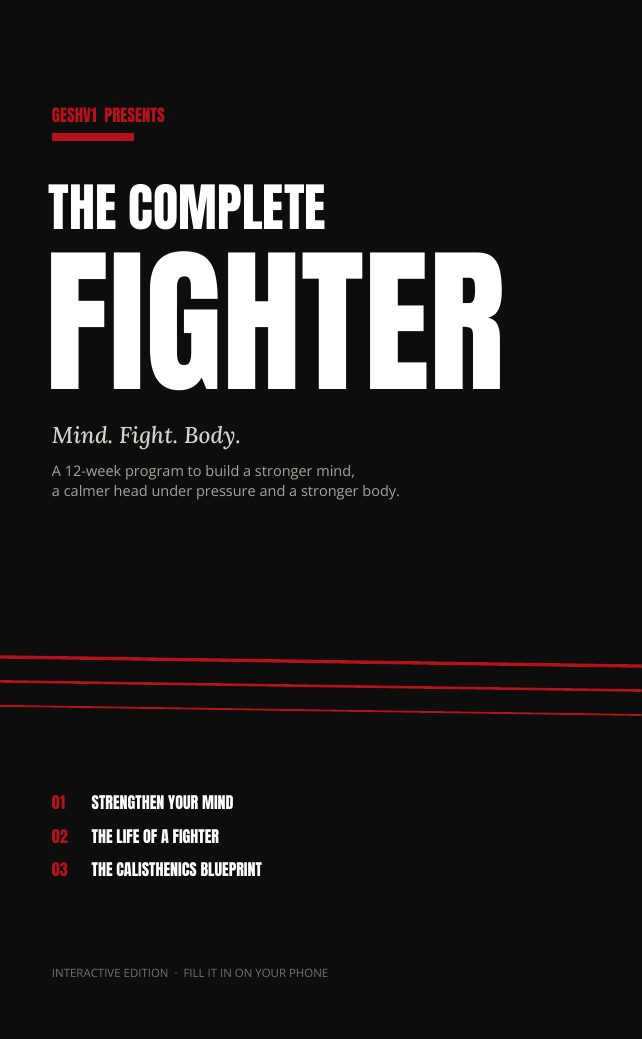
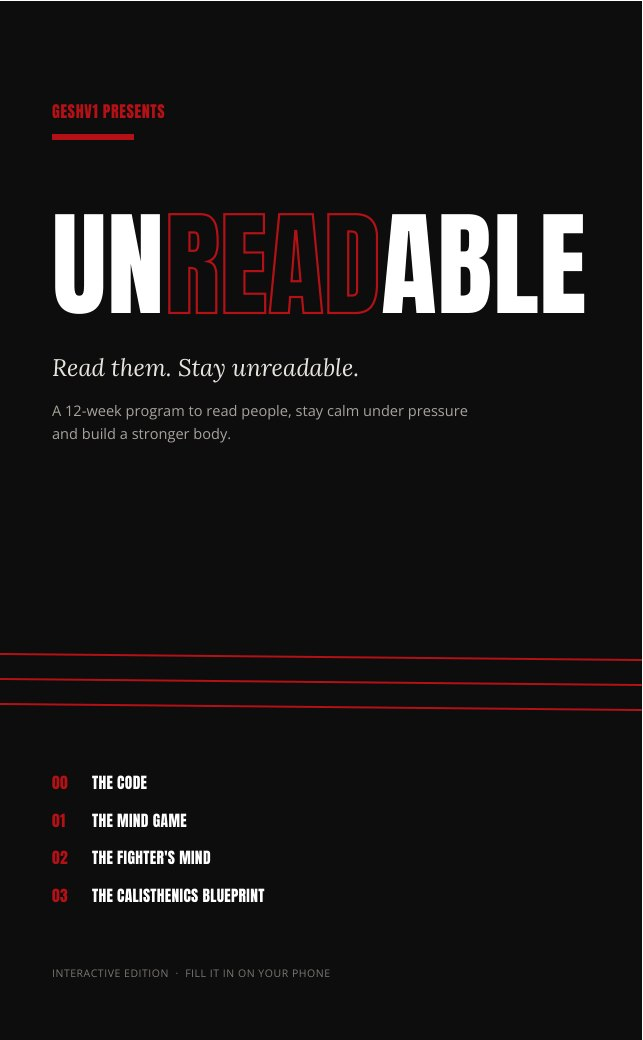
Rename the book to Unreadable across the site
New cover and preview pages from the rebuilt book, the sales page and
quiz now use the new name, and the book details (parts, page count,
fill-in boxes) match the new 58-page edition.

Claude-Session: https://claude.ai/code/session_011QdG5ddfwiE2Q7JrrEerXv

diff --git a/index.html b/index.html
@@ -3,9 +3,9 @@
 <head>
 <meta charset="utf-8">
 <meta name="viewport" content="width=device-width, initial-scale=1">
-<title>The Complete Fighter</title>
-<meta name="description" content="From one messy pull-up to clean sets. A 12-week bodyweight plan by geshv1, plus the psychology of fear, ego, pressure and discipline from the ring.">
-<meta property="og:title" content="One messy pull-up. Now clean sets. · The Complete Fighter">
+<title>Unreadable · Read them. Stay unreadable.</title>
+<meta name="description" content="Unreadable by geshv1: from one messy pull-up to clean sets. A 12-week bodyweight plan, plus how to read people, spot manipulation and stay calm under pressure.">
+<meta property="og:title" content="One messy pull-up. Now clean sets. · Unreadable">
 <meta property="og:description" content="The 12-week bodyweight plan I followed from one messy rep to strict pull-ups, plus the psychology that keeps you from quitting. Instant PDF.">
 <meta property="og:image" content="https://geshv1.github.io/completefighter/cover.jpg">
 <meta name="theme-color" content="#08080b">
@@ -373,7 +373,7 @@ summary .pm::before,summary .pm::after{height:1.5px}
 <div class="hero">
   <div class="wrap">
     <div class="hero-copy">
-      <div class="eyebrow">The Complete Fighter · Body. Mind. Fight.</div>
+      <div class="eyebrow">Unreadable · Mind. Fight. Body.</div>
       <h1>
         <span class="line">One messy pull-up.</span>
         <span class="line">Now clean <span class="r">sets.</span></span>
@@ -446,10 +446,12 @@ summary .pm::before,summary .pm::after{height:1.5px}
   <div class="wrap">
     <div class="sec-head rv">
       <div class="eyebrow">Round 02 · The mind</div>
-      <h2>The psychology that keeps you in the fight.</h2>
-      <p>Most guys don't quit because the workout is hard. They quit because of what happens in their head. The rest of the book is what boxing taught me about fear, ego, pressure and discipline, turned into drills you do every day.</p>
+      <h2>Read them. Stay unreadable.</h2>
+      <p>Most guys don't get stuck because the workout is hard. They get stuck because of what happens in their head, and because of the people pulling their strings. The rest of the book is how to read people while they can't read you, and what boxing taught me about fear, ego, pressure and discipline, turned into drills you do every day.</p>
     </div>
     <div class="psych rv">
+      <article><span class="q">Why you get used</span><p>Dark psychology: the 11 moves people use to steer you, from guilt trips to gaslighting, and your counter to each one.</p></article>
+      <article><span class="q">Why they read you</span><p>Frame, presence and saying no without a reason. Calm on the outside, clear on the inside, nothing to grab.</p></article>
       <article><span class="q">Why you quit</span><p>Motivation vs discipline, and a weekly structure that works on the days you don't feel like it.</p></article>
       <article><span class="q">Why you freeze</span><p>Fear and pressure, explained from the ring. How fighters step in before they feel ready.</p></article>
       <article><span class="q">Why you snap</span><p>Ego and anger. Whoever controls your emotions controls you, in the ring and outside it.</p></article>
@@ -472,7 +474,7 @@ summary .pm::before,summary .pm::after{height:1.5px}
         <span class="you-tag">Your type</span>
         <h3>Nice Guy</h3>
         <p>Liked by everyone, respected by no one. You say yes when you mean no, and people know it.</p>
-        <p class="fix"><b>You get:</b> a 6-week mind program to stop needing approval, and a body plan that proves you keep your word.</p>
+        <p class="fix"><b>You get:</b> the Mind Game: spot the guilt trip, say no without a reason and stop needing approval. Plus a body plan that proves you keep your word.</p>
       </article>
       <article class="card" data-type="ot">
         <span class="you-tag">Your type</span>
@@ -484,7 +486,7 @@ summary .pm::before,summary .pm::after{height:1.5px}
         <span class="you-tag">Your type</span>
         <h3>Hothead</h3>
         <p>Strong, and easy to control. One comment and you do exactly what they wanted.</p>
-        <p class="fix"><b>You get:</b> 20 rounds from the ring on ego, pain and pressure, each with a daily drill to stay calm.</p>
+        <p class="fix"><b>You get:</b> rounds from the ring on ego, pain and pressure, each with a drill to stay calm, and the bait spotted before you bite.</p>
       </article>
       <article class="card" data-type="dr">
         <span class="you-tag">Your type</span>
@@ -501,10 +503,40 @@ summary .pm::before,summary .pm::after{height:1.5px}
   <div class="wrap">
     <div class="sec-head rv">
       <div class="eyebrow">Round 04 · What's inside</div>
-      <h2>Body. Mind. Fight. One book.</h2>
+      <h2>Mind. Fight. Body. One book.</h2>
       <p>Most guides tell you what to think. This one gives you something to do every single day, and a place to write it down.</p>
     </div>
     <div class="parts">
+      <div class="part rv">
+        <div class="num">Code</div>
+        <div><h3>The Code</h3><span class="len">Part 0 · week 1 · one rule a day</span></div>
+        <ul>
+          <li>Five rules I live by, one page each</li>
+          <li>The real story behind every rule</li>
+          <li>A drill that puts each rule to work</li>
+          <li>Sign your own code and write your sixth rule</li>
+        </ul>
+      </div>
+      <div class="part rv">
+        <div class="num">Mind</div>
+        <div><h3>The Mind Game</h3><span class="len">Part 1 · 11 rounds · weeks 2–5</span></div>
+        <ul>
+          <li>Dark psychology: the 11 moves people use to steer you, and your counter to each</li>
+          <li>What gets used on your type, and how to shut it down</li>
+          <li>Read people, hold your frame and say no</li>
+          <li>Think one step ahead, be different, be fine alone</li>
+        </ul>
+      </div>
+      <div class="part rv">
+        <div class="num">Fight</div>
+        <div><h3>The Fighter's Mind</h3><span class="len">Part 2 · 10 rounds · weeks 6–9</span></div>
+        <ul>
+          <li>How sport builds a "nothing's impossible" mindset</li>
+          <li>Fear, composure, discipline, ego, pain and failure, explained from the ring</li>
+          <li>Real stories from my own sparring, competitions and hard years</li>
+          <li>A drill for every round, and a place to log how it went</li>
+        </ul>
+      </div>
       <div class="part rv">
         <div class="num">Body</div>
         <div><h3>The Calisthenics Blueprint</h3><span class="len">Part 3 · 12 weeks · 3 workouts a week</span></div>
@@ -515,32 +547,12 @@ summary .pm::before,summary .pm::after{height:1.5px}
           <li>Warm-up, nutrition with real numbers, and full trackers</li>
         </ul>
       </div>
-      <div class="part rv">
-        <div class="num">Mind</div>
-        <div><h3>Strengthen Your Mind</h3><span class="len">Part 1 · 6 weeks · one chapter a week</span></div>
-        <ul>
-          <li>Build structure when school, work and training collide</li>
-          <li>Be fine alone and stop needing approval</li>
-          <li>A 4-step method to solve your own problems</li>
-          <li>Weekly challenges and three honest questions to answer</li>
-        </ul>
-      </div>
-      <div class="part rv">
-        <div class="num">Fight</div>
-        <div><h3>The Life of a Fighter</h3><span class="len">Part 2 · 20 rounds · one a day</span></div>
-        <ul>
-          <li>Fear, ego, pain, failure and pressure, explained from the ring</li>
-          <li>Real stories from my own sparring, competitions and hard years</li>
-          <li>A daily drill that turns each lesson into action</li>
-          <li>Tick it off and log how it went</li>
-        </ul>
-      </div>
     </div>
     <div class="stats rv">
-      <div class="stat"><b>76</b><span>pages</span></div>
-      <div class="stat"><b>244</b><span>fill-in boxes and checkboxes</span></div>
-      <div class="stat"><b>20</b><span>rounds from the ring</span></div>
-      <div class="stat"><b>6</b><span>weeks of mind training</span></div>
+      <div class="stat"><b>58</b><span>pages</span></div>
+      <div class="stat"><b>283</b><span>fill-in boxes and checkboxes</span></div>
+      <div class="stat"><b>11</b><span>moves people use on you</span></div>
+      <div class="stat"><b>5</b><span>rules to live by</span></div>
     </div>
   </div>
 </section>
@@ -555,8 +567,8 @@ summary .pm::before,summary .pm::after{height:1.5px}
     </div>
     <div class="pages rv">
       <figure class="page"><img src="cover.jpg" alt="Book cover" loading="lazy" width="420" height="680"><figcaption>The cover</figcaption></figure>
-      <figure class="page"><img src="page-week.jpg" alt="Week 1 planner page with fillable fields" loading="lazy" width="420" height="680"><figcaption>Your weekly structure</figcaption></figure>
-      <figure class="page"><img src="page-round.jpg" alt="Round 9: Pain, with a story and a daily drill" loading="lazy" width="420" height="680"><figcaption>A round with a daily drill</figcaption></figure>
+      <figure class="page"><img src="page-playbook.jpg" alt="The playbook: the moves people use to steer you, what they sound like and your counter" loading="lazy" width="420" height="680"><figcaption>The playbook</figcaption></figure>
+      <figure class="page"><img src="page-round.jpg" alt="Rule 01: You're a human, I'm a human, with a story and a daily drill" loading="lazy" width="420" height="680"><figcaption>A rule with a daily drill</figcaption></figure>
       <figure class="page"><img src="page-tracker.jpg" alt="12-week progress tracker" loading="lazy" width="420" height="680"><figcaption>Your 12-week tracker</figcaption></figure>
     </div>
   </div>
@@ -602,10 +614,11 @@ summary .pm::before,summary .pm::after{height:1.5px}
         <div class="eyebrow">Round 08 · Your corner</div>
         <h3 style="margin-top:14px">Everything you get</h3>
         <ul>
-          <li><svg width="12" height="12" viewBox="0 0 12 12"><rect x="2" y="2" width="8" height="8" transform="rotate(45 6 6)" fill="#d42a3c"/></svg><span><b>The Complete Fighter</b>, 76-page interactive PDF</span></li>
+          <li><svg width="12" height="12" viewBox="0 0 12 12"><rect x="2" y="2" width="8" height="8" transform="rotate(45 6 6)" fill="#d42a3c"/></svg><span><b>Unreadable</b>, 58-page interactive PDF</span></li>
+                    <li><svg width="12" height="12" viewBox="0 0 12 12"><rect x="2" y="2" width="8" height="8" transform="rotate(45 6 6)" fill="#d42a3c"/></svg><span><b>The code:</b> five rules to live by, and your own to sign</span></li>
+          <li><svg width="12" height="12" viewBox="0 0 12 12"><rect x="2" y="2" width="8" height="8" transform="rotate(45 6 6)" fill="#d42a3c"/></svg><span><b>The mind game:</b> dark psychology, reading people, saying no</span></li>
+          <li><svg width="12" height="12" viewBox="0 0 12 12"><rect x="2" y="2" width="8" height="8" transform="rotate(45 6 6)" fill="#d42a3c"/></svg><span><b>The fight:</b> The Fighter's Mind, 10 rounds from the ring</span></li>
           <li><svg width="12" height="12" viewBox="0 0 12 12"><rect x="2" y="2" width="8" height="8" transform="rotate(45 6 6)" fill="#d42a3c"/></svg><span><b>The body:</b> The Calisthenics Blueprint, 12-week plan</span></li>
-          <li><svg width="12" height="12" viewBox="0 0 12 12"><rect x="2" y="2" width="8" height="8" transform="rotate(45 6 6)" fill="#d42a3c"/></svg><span><b>The mind:</b> Strengthen Your Mind, 6-week program</span></li>
-          <li><svg width="12" height="12" viewBox="0 0 12 12"><rect x="2" y="2" width="8" height="8" transform="rotate(45 6 6)" fill="#d42a3c"/></svg><span><b>The fight:</b> The Life of a Fighter, 20 daily rounds</span></li>
           <li><svg width="12" height="12" viewBox="0 0 12 12"><rect x="2" y="2" width="8" height="8" transform="rotate(45 6 6)" fill="#d42a3c"/></svg><span>Level test, trackers and a 36-workout checklist</span></li>
           <li><svg width="12" height="12" viewBox="0 0 12 12"><rect x="2" y="2" width="8" height="8" transform="rotate(45 6 6)" fill="#d42a3c"/></svg><span>Works on iPhone, Android and computer</span></li>
         </ul>
@@ -661,7 +674,7 @@ summary .pm::before,summary .pm::after{height:1.5px}
 
 <footer>
   <div class="wrap">
-    <span>© 2026 geshv1 · The Complete Fighter</span>
+    <span>© 2026 geshv1 · Unreadable</span>
     <a href="https://www.tiktok.com/@geshv1">TikTok @geshv1</a>
     <span>This guide is general fitness and self-improvement information, not medical advice.</span>
   </div>

diff --git a/quiz.html b/quiz.html
@@ -185,7 +185,7 @@ footer .wrap{display:flex;flex-wrap:wrap;gap:10px 24px;justify-content:space-bet
     <p class="lede">Ten honest questions about pressure, people and the way you live. Find your type, your real strength, and what people use against you.</p>
     <button class="btn" id="start" type="button">Start round 1 <span aria-hidden="true">→</span></button>
     <p class="note">Answer honestly. Your answers stay on your phone.</p>
-    <noscript><p style="margin-top:20px;color:#cfcac1">The quiz needs JavaScript. You can go straight to <a href="./">The Complete Fighter</a>.</p></noscript>
+    <noscript><p style="margin-top:20px;color:#cfcac1">The quiz needs JavaScript. You can go straight to <a href="./">Unreadable</a>.</p></noscript>
   </div>
 </section>
 
@@ -241,7 +241,7 @@ footer .wrap{display:flex;flex-wrap:wrap;gap:10px 24px;justify-content:space-bet
       <h2 id="rFixHead"></h2>
       <p id="rBook"></p>
       <a class="btn" id="rCta" href="./" data-umami-event="quiz-to-book"><span id="rCtaText">See the fix</span> <span aria-hidden="true">→</span></a>
-      <small>The Complete Fighter · €9.99 · 14-day refund</small>
+      <small>Unreadable · €9.99 · 14-day refund</small>
     </div>
 
     <div class="after">
@@ -255,7 +255,7 @@ footer .wrap{display:flex;flex-wrap:wrap;gap:10px 24px;justify-content:space-bet
 
 <footer>
   <div class="wrap">
-    <span>© 2026 geshv1 · The Complete Fighter</span>
+    <span>© 2026 geshv1 · Unreadable</span>
     <a href="https://www.tiktok.com/@geshv1">TikTok @geshv1</a>
     <span>A self-reflection quiz, not a psychological test.</span>
   </div>

diff --git a/guide.html b/guide.html
@@ -2,13 +2,13 @@
 <html lang="en">
 <head>
 <meta charset="utf-8">
-<title>The Complete Fighter</title>
+<title>Unreadable</title>
 <!-- Old address of the book page. Sends visitors (and their quiz result) to the new one. -->
 <script>location.replace("./" + location.search + location.hash);</script>
 <meta http-equiv="refresh" content="0; url=./">
 <link rel="canonical" href="https://geshv1.github.io/completefighter/">
 </head>
 <body style="background:#08080b;color:#f1f2f5;font-family:Arial,sans-serif;padding:40px">
-<a href="./" style="color:#f0505f">Go to The Complete Fighter →</a>
+<a href="./" style="color:#f0505f">Go to Unreadable →</a>
 </body>
 </html>

diff --git a/config.js b/config.js
@@ -1,7 +1,7 @@
 /* ===== SITE SETTINGS: the only file you need to edit =====
    Both pages (the book page and the quiz) read these lines. */
 
-// Gumroad product link, e.g. "https://geshv1.gumroad.com/l/completefighter".
+// Gumroad product link, e.g. "https://geshv1.gumroad.com/l/unreadable".
 // When filled in, every "Get the book" button opens the checkout in a pop-up on the page.
 window.GUMROAD_URL = "";
 

diff --git a/CLAUDE.md b/CLAUDE.md
@@ -3,7 +3,7 @@
 The user is on an iPhone and is not a programmer. They send a Betano screenshot, a match link or team
 names; you run the engine in `edgebot/` and answer in short, plain language. Budget is €0: never add a
 paid service without asking. Real-money betting stays off. The rest of the repo (index.html, media) is
-the user's separate "Complete Fighter" website: leave it alone.
+the user's separate book website ("Unreadable", formerly "The Complete Fighter"): leave it alone unless asked.
 
 ## Environment
 
